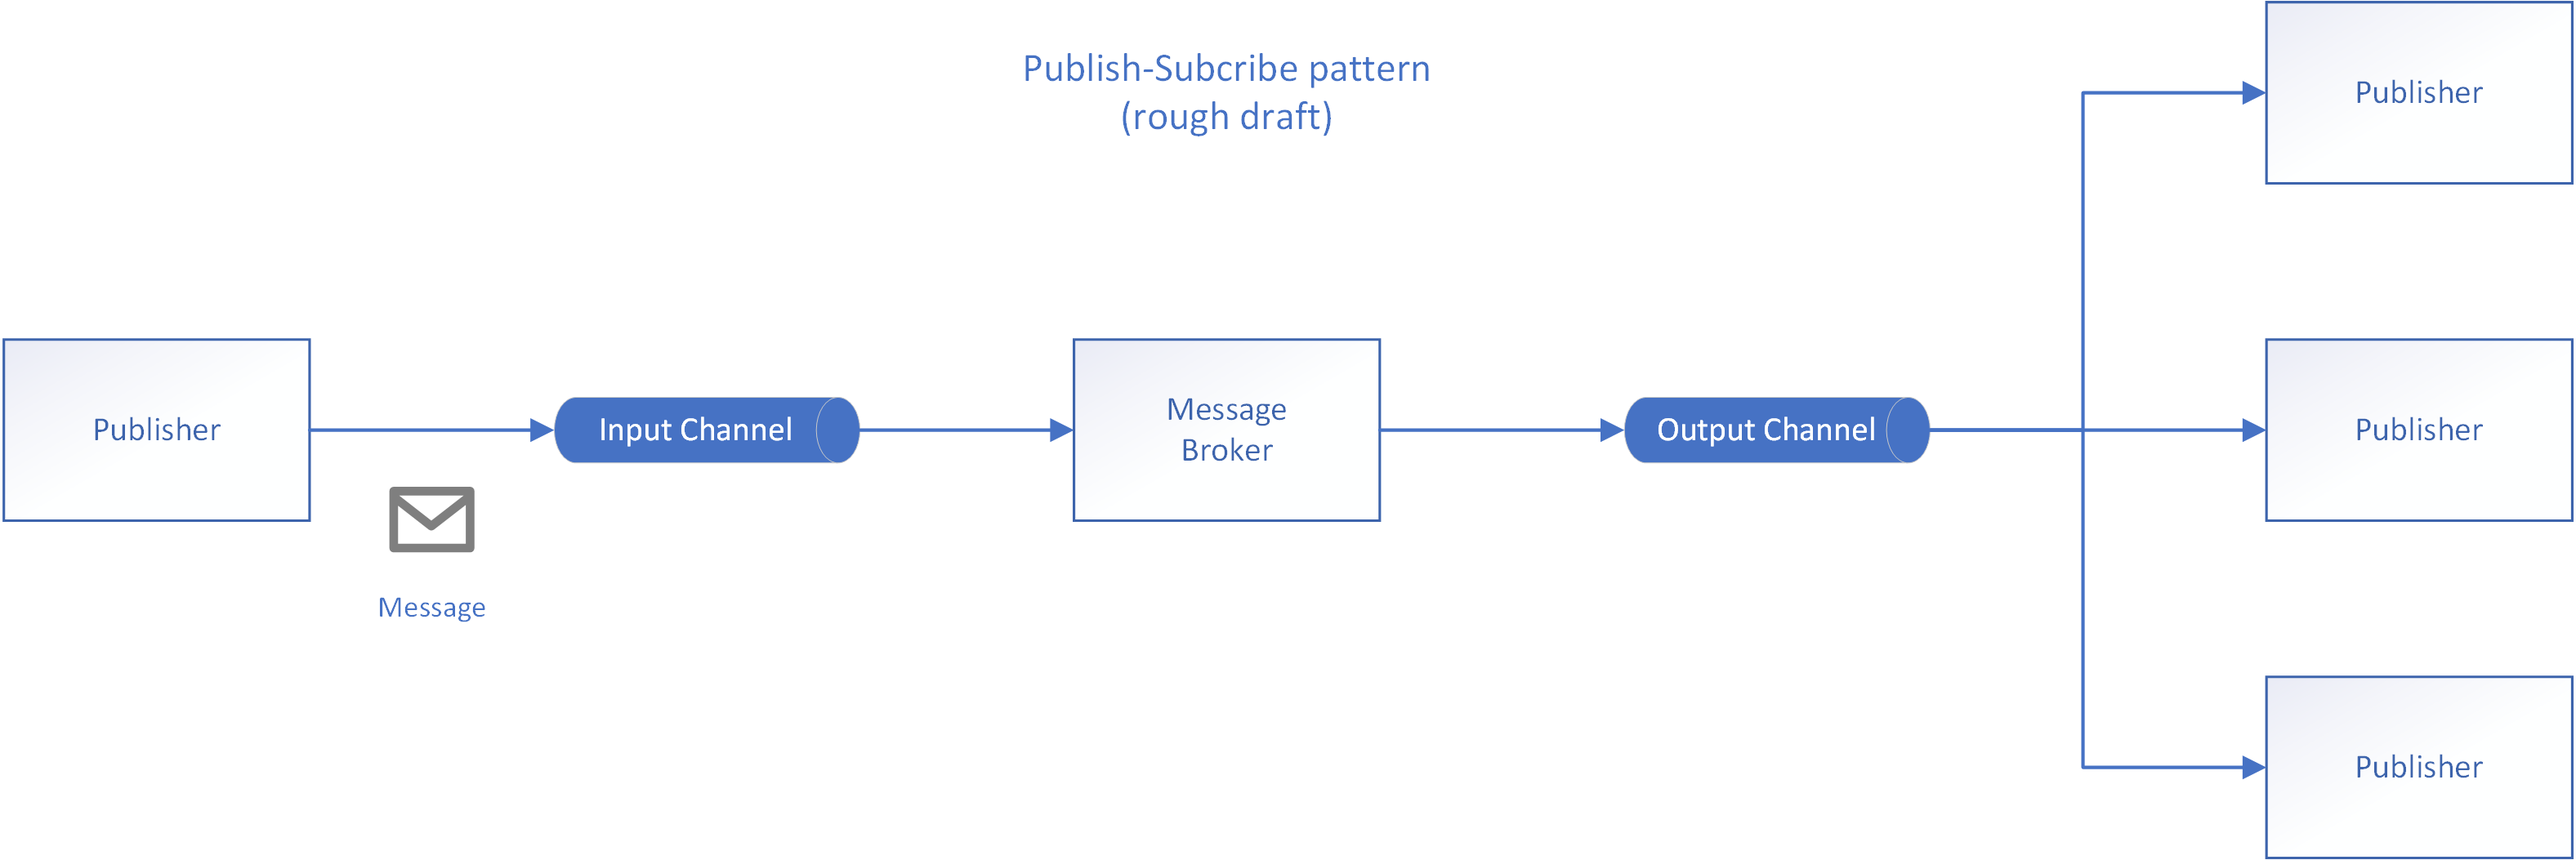
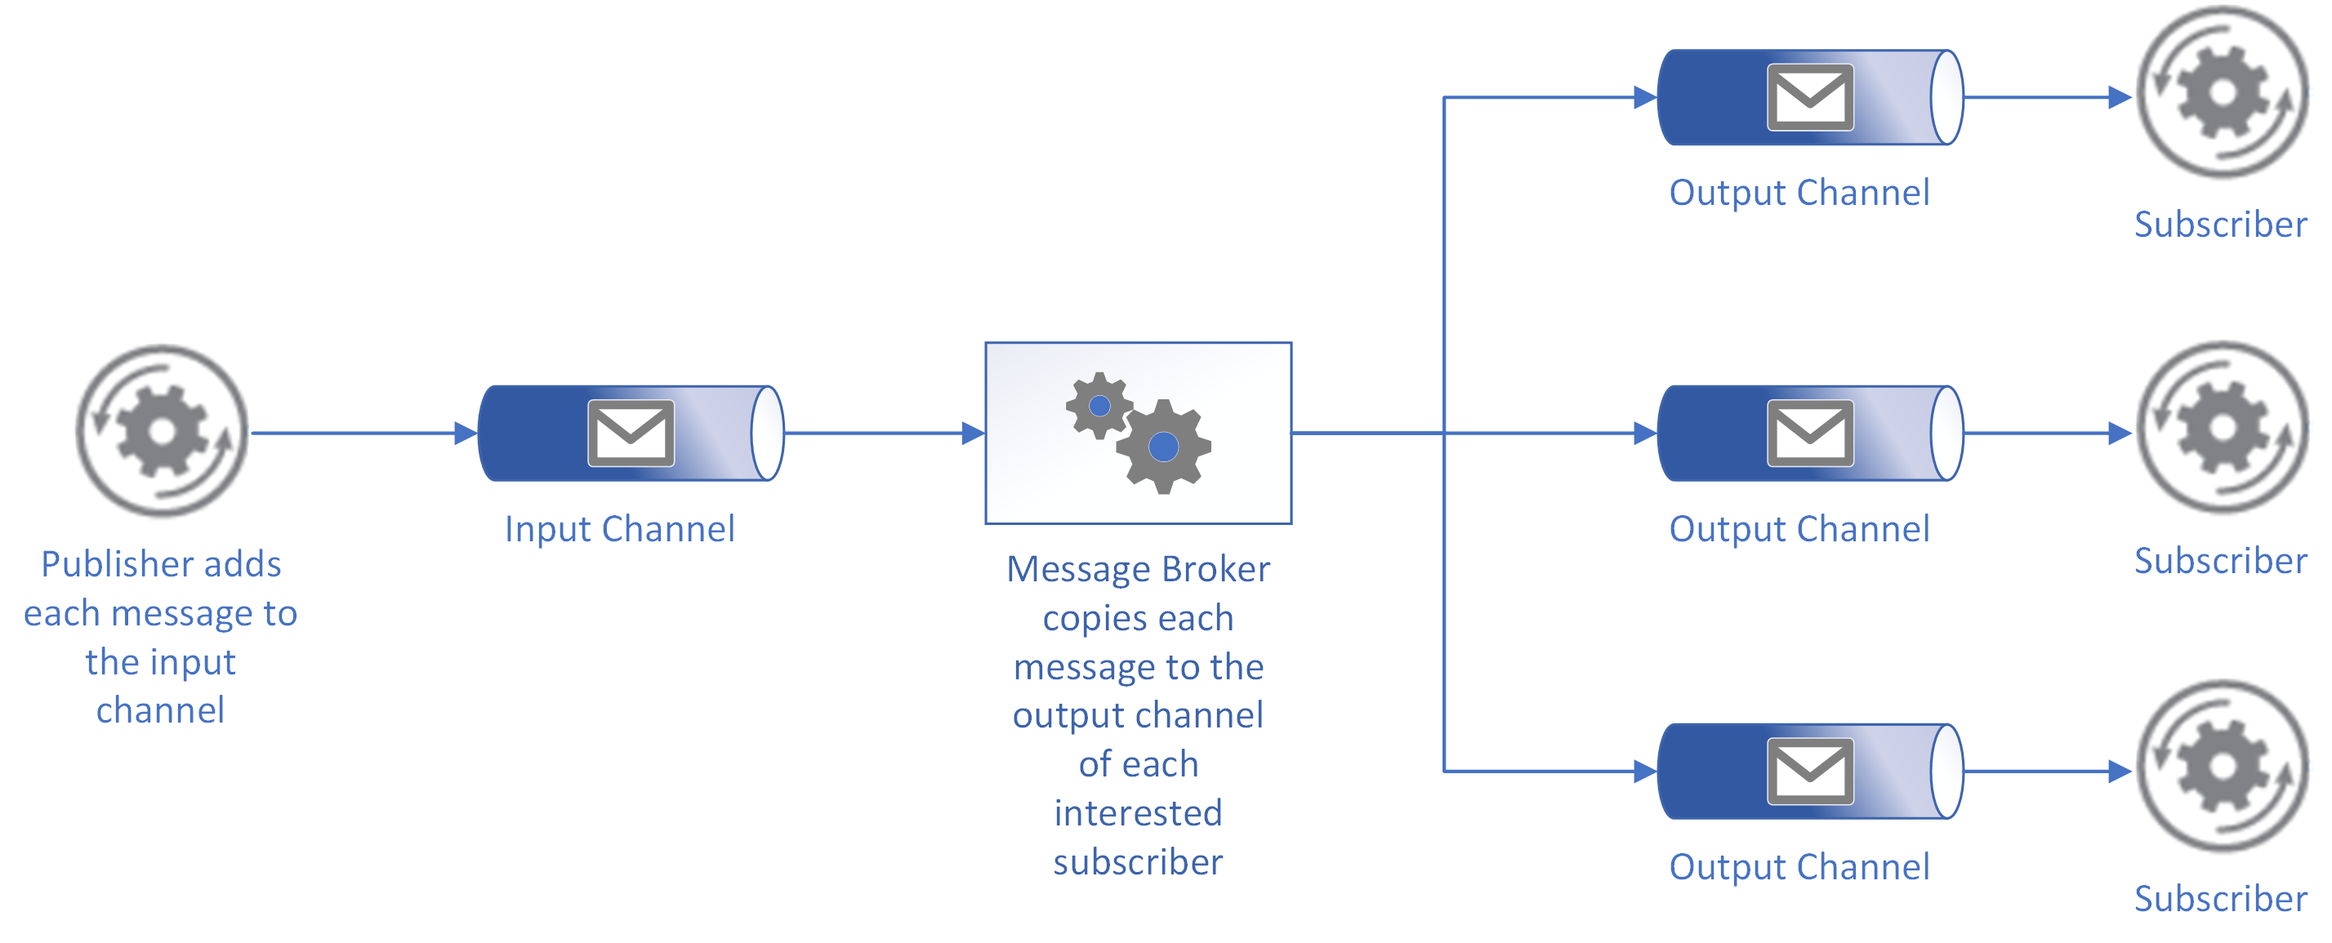
Revised content and added Event Grid example

diff --git a/docs/patterns/publisher-subscriber.md b/docs/patterns/publisher-subscriber.md
@@ -12,7 +12,7 @@ pnp.pattern.categories: [messaging]
 
 # Publisher-Subscriber pattern
 
-<!-- [!INCLUDE [header](../_includes/header.md)] -->
+[!INCLUDE [header](../_includes/header.md)]
 
 Enable a sender to announce events to multiple interested receivers aynchronously, without coupling senders and receivers.
 
@@ -70,11 +70,11 @@ Consider the following points when deciding how to implement this pattern:
 
 - **Bi-directional communication.** The channels in a publish-subscribe system are treated as unidirectional. If a specific subscriber needs to send acknowledgement or communicate status back to the publisher, consider using the [Request/Reply Pattern](http://www.enterpriseintegrationpatterns.com/patterns/messaging/RequestReply.html). This pattern uses one channel to send a message to the subscriber, and a separate reply channel for communicating back to the publisher.
 
-- **Message ordering.** The order that messages are received by subscribers isn't guaranteed, and doesn't necessarily reflect the creation order of the messages. Design the system to ensure that message processing is idempotent to help eliminate any dependency on the order of message handling.
+- **Message ordering.** The order in which messages are received by subscribers isn't guaranteed, and doesn't necessarily reflect the creation order of the messages. Many messaging services provide capabilities to ensure first-in-first-out (FIFO) ordering of messages.
 
 - **Message priority.** Some solutions may require that messages are processed in a specific order. The [Priority Queue pattern](priority-queue.md) provides a mechanism for ensuring specific messages are delivered before others.
 
-- **Poison messages.** A malformed message, or a task that requires access to resources that aren't available, can cause a service instance to fail. The system should prevent such messages being returned to the queue. Instead, capture and store the details of these messages elsewhere so that they can be analyzed if necessary. Many messaging services provide a dead-letter queue that can hold poison messages for later processing.
+- **Poison messages.** A malformed message, or a task that requires access to resources that aren't available, can cause a service instance to fail. The system should prevent such messages being returned to a channel. Instead, capture and store the details of these messages elsewhere so that they can be analyzed if necessary. Many messaging services provide a dead-letter queue that can hold poison messages for later processing.
 
 - **Repeated messages.** The same message might be sent more than once if, for example, the sender fails after posting a message but before completing any other work it was performing. Another sender could be started and run in its place, and this new sender could repeat the message. The messaging infrastructure may implement duplicate message detection and removal (also known as de-duping), usually based on message IDs, in order to provide at-most-once delivery of messages. If not, the receivers are responsible for either removing duplicate messages or implementing idempotent operations for message processing. Note that a de-duping process can affect system throughput.
     
@@ -85,15 +85,15 @@ Consider the following points when deciding how to implement this pattern:
 - **Message size.** If the amount of data associated with each message is significant, consider using a different storage mechanism such as file or blob storage for this data, and include a reference to it in the message.
 
 - **Distinguish between events and messages.** It can be helpful to make a distinction between two types of datagrams typically published by a system: messages and events.
-    - If a publisher has a certain expectation of how the published information item ought to be handled, and what audience should receive it (such as issuing a command, assigning a job, or handing over control of a collaborative activity), this is usually communicated in a message.  
+    - If a publisher has a certain expectation of how the published information item ought to be handled, and what audience should receive it (such as issuing a command, assigning a job, or handing over control of a collaborative activity), this is usually communicated in a message.
     - Events are intended to inform, but there is typically no expectation of how receivers will use that information. An event captures and conveys a fact. A receiver of the event can determine how to process the fact and doesn’t fulfill any specific expectations held by the publisher.
-    - Services that provide publish-subscribe capabilities may be better suited to one or other other type of information (messages vs. events). For more information, see [Events, Data Points, and Messages](https://azure.microsoft.com/en-us/blog/events-data-points-and-messages-choosing-the-right-azure-messaging-service-for-your-data/). 
+    - Services that provide publish-subscribe capabilities may be better suited to one or other other type of information (messages vs. events). For more information, see [Events, Data Points, and Messages](https://azure.microsoft.com/en-us/blog/events-data-points-and-messages-choosing-the-right-azure-messaging-service-for-your-data/).
 
 ## When to use this pattern
 
 Use this pattern when:
 
-- An application needs to broadcast information to a significant number of interested receivers.
+- An application needs to broadcast information to multiple interested receivers.
 - An application needs to communicate with one or more independently-developed receiving applications, which may use different platforms, programming languages, and communication protocols.
 - An application can send information to receivers without expecting real-time responses.
 - The systems being integrated are designed to support an eventual consistency model for their data. 
@@ -101,43 +101,26 @@ Use this pattern when:
 
 This pattern might not be useful when:
 
-- An application has only a few consumers, or each consumer requires different inforamtion from the sending application.
-- Two closely-related applications require frequent bi-directional communication in near real-time. Communication between these applications may be better served by a point-to-point asynchronous mechanism such as a message queue, along with strategies such as the [Competing Consumer](competing-consumer.md) pattern.
 - [Complex event processing](https://en.wikipedia.org/wiki/Complex_event_processing) systems will likely benefit from a broader event stream processing approach (such as those used in [Kafka](https://kafka.apache.org/) and [Azure Event Hubs](https://docs.microsoft.com/en-us/azure/event-hubs/event-hubs-what-is-event-hubs)).
- 
-## Technology options / examples
 
-There are many available messaging services and protocols that provide publish-subscribe capabilities between systems. You should review the available technologies and select one that meet your requirements.
 
-- [Advanced Message Queuing Protocol (AQMP)](https://en.wikipedia.org/wiki/Advanced_Message_Queuing_Protocol).
-    - **TODO**
+## Example: Azure Event Grid
 
-- [Message Queuing Telemetry Transport (MQTT)](https://en.wikipedia.org/wiki/MQTT)
-    - **TODO**
+[Azure Event Grid](/azure/event-grid/overview) is a fully-managed intelligent event routing service. When a publisher (also called an event source) raises an event, Azure Event Grid sends the event via HTTP to all interested subscribers (also called an event handler). Because events can be raised from both custom applications and native Azure resources, and numerous options exist for enabling event handlers, Azure Event Grid provides a uniform, cloud-scale approach to enabling publish-subscribe model for your Azure application and resource events.
 
-- **Azure messaging services**. Azure offers three services that assist with delivering event messages throughout a solution. Although they have some similarities, each service is designed for particular scenarios. In many cases, the messaging services are complementary and can be used together. For more information on the differences between these services, see [Choose between Azure services that deliver messages](/azure/event-grid/compare-messaging-services).
+> Azure offers multiple services that assist with delivering event messages throughout a solution. Although they have some similarities, each service is designed for particular scenarios. In many cases, these services are complementary and can be used together. For more information on the differences between these services, see [Choose between Azure services that deliver messages](/azure/event-grid/compare-messaging-services).
 
-- [**Azure Service Bus**](/azure/service-bus-messaging/service-bus-fundamentals-hybrid-solutions). Azure Service Bus provides options for simple queuing, publish-and-subscribe (via [topics and subscriptions](/azure/service-bus-messaging/service-bus-queues-topics-subscriptions#topics-and-subscriptions)), and direct connection approaches. This allows you to choose the best communication approach for each of your scenarios while taking advantage of a common platform. Service Bus has capabilities to address many publish-subscribe considerations, such as:
-    - Complex message routing
-    - Duplicate message detection
-    - Dead-letter queues
-    - Transaction processing
-    - Security capabilities such as Managed Service Identity and Role-Based Access Control
-    - AMQP support
-  
- 
->**TODO: Add details or examples for:**
-        
-        - [Azure Event Grid](/azure/event-grid/overview). Reactive programming / event distribution (discrete)/ react to status changes
-        - [Azure Event Hubs](). Big data pipeline	/ Event streaming (series) / Telemetry and distributed data streaming
-                - low latency
-                - capable of receiving and processing millions of events per second
-            - [Azure Relay](/azure/service-bus-relay/relay-what-is-it)
-            - [Implementing event-based communication between microservices]()
-        - [Azure IoT Hub](/azure/iot-hub/iot-hub-what-is-iot-hub)
-        - [SQL Server Service Broker]
-        - [Azure Storage queues] provide basic queuing capabilities, but no built-in publish-subscribe capabilities. Applications requiring publish-subscribe capabilities should use Azure Service Bus. For more information, see [Azure Storage queues and Azure Service Bus queues - compared and contrasted](https://docs.microsoft.com/en-us/azure/service-bus-messaging/service-bus-azure-and-service-bus-queues-compared-contrasted).
-        
+![Publish-subscribe pattern using Azure Event Grid](./_images/event-grid-model.png)  
+
+Event Grid enables the following types of event sources:
+    - Azure resources such as Blob storage and virtual machines raise events to system topics provided by Azure. Event handlers can [subscribe to the topics](/azure/storage/blobs/storage-blob-event-quickstart?toc=%2fazure%2fevent-grid%2ftoc.json) they are interested in. For a list of Azure-generated resource events, see [About Event Grid: Event sources](/azure/event-grid/overview#event-sources). 
+    - An application can [create custom topics](/azure/event-grid/custom-event-quickstart) for raising its events. An application can categorize different types of events by defining multiple custom topics. Event handlers can also filter events to receive only those events they want to receive. For more information, see [Post to a custom topic for Azure Event Grid](https://docs.microsoft.com/en-us/azure/event-grid/post-to-custom-topic).
+
+Event Grid also provides a number of approaches to handling events from event sources:
+    - [Azure Functions](/azure/azure-functions/functions-overview) provides a [serverless approach](https://azure.microsoft.com/en-us/resources/videos/azure-serverless-end-to-end-with-functions-logic-apps-and-event-grid/) to running small pieces of custom code in Azure. You can focus on addressing a specific need without building an entire application or managing the underlying infrastructure. An Azure function can subscribe to an Event Grid topic and reactively run its code whenever an event is received. For more information, see [Handling Event Grid events in Azure Functions](https://docs.microsoft.com/en-us/azure/azure-functions/functions-bindings-event-grid). 
+    - [Azure Automation](/azure/automation/automation-offering-get-started) automates manual processes using Powershell-based runbooks. A raised event can trigger a subsequent workflow defined in an automation runbook. For more information, see [Integrating Azure Automation with Event Grid](https://docs.microsoft.com/en-us/azure/event-grid/ensure-tags-exists-on-new-virtual-machines).
+    - [Azure Logic Apps](/azure/logic-apps/logic-apps-overview) helps you easily integrate with other services and systems across enterprises or organizations. Hundreds of available connectors let you quickly create workflows across services that react to events raised via Event Grid. For an example, see [Monitor virtual machine changes with Azure Event Grid and Logic Apps](/azure/event-grid/monitor-virtual-machine-changes-event-grid-logic-app).
+
 ## Related patterns and guidance
 
 The following patterns and guidance might be relevant when implementing this pattern:
@@ -146,7 +129,7 @@ The following patterns and guidance might be relevant when implementing this pat
 
 - [Observer Pattern](https://en.wikipedia.org/wiki/Observer_pattern). The Publish-Subscribe pattern builds on the Observer pattern by decoupling subjects from observers via asynchronous messaging.
 
-- [Message Broker Pattern](https://en.wikipedia.org/wiki/Message_broker). Many messaging subsystems that support a publish-subscribe modek are implemented via a message broker.
+- [Message Broker Pattern](https://en.wikipedia.org/wiki/Message_broker). Many messaging subsystems that support a publish-subscribe model are implemented via a message broker.
 
 <!-- links -->
 

diff --git a/docs/patterns/competing-consumers.md b/docs/patterns/competing-consumers.md
@@ -43,13 +43,11 @@ This solution has the following benefits:
 
 Consider the following points when deciding how to implement this pattern:
 
-- **Message ordering**. The order in which consumer service instances receive messages isn't guaranteed, and doesn't necessarily reflect the order in which the messages were created. Design the system to ensure that message processing is idempotent because this will help to eliminate any dependency on the order in which messages are handled. For more information, see [Idempotency Patterns](http://blog.jonathanoliver.com/idempotency-patterns/) on Jonathon Oliver’s blog.
-
-    > Microsoft Azure Service Bus Queues can implement guaranteed first-in-first-out ordering of messages by using message sessions. For more information, see [Messaging Patterns Using Sessions](https://msdn.microsoft.com/magazine/jj863132.aspx).
+- **Message ordering.** The order in which messages are received by consumer service instances isn't guaranteed, and doesn't necessarily reflect the creation order of the messages. Many messaging services provide capabilities to ensure first-in-first-out (FIFO) ordering of messages.
 
 - **Designing services for resiliency**. If the system is designed to detect and restart failed service instances, it might be necessary to implement the processing performed by the service instances as idempotent operations to minimize the effects of a single message being retrieved and processed more than once.
 
-- **Detecting poison messages**. A malformed message, or a task that requires access to resources that aren't available, can cause a service instance to fail. The system should prevent such messages being returned to the queue, and instead capture and store the details of these messages elsewhere so that they can be analyzed if necessary.
+- **Detecting poison messages**. A malformed message, or a task that requires access to resources that aren't available, can cause a service instance to fail. The system should prevent such messages being returned to the queue, and instead capture and store the details of these messages elsewhere so that they can be analyzed if necessary. Many messaging services provide a dead-letter queue that can hold poison messages for later processing.
 
 - **Handling results**. The service instance handling a message is fully decoupled from the application logic that generates the message, and they might not be able to communicate directly. If the service instance generates results that must be passed back to the application logic, this information must be stored in a location that's accessible to both. In order to prevent the application logic from retrieving incomplete data the system must indicate when processing is complete.
 
